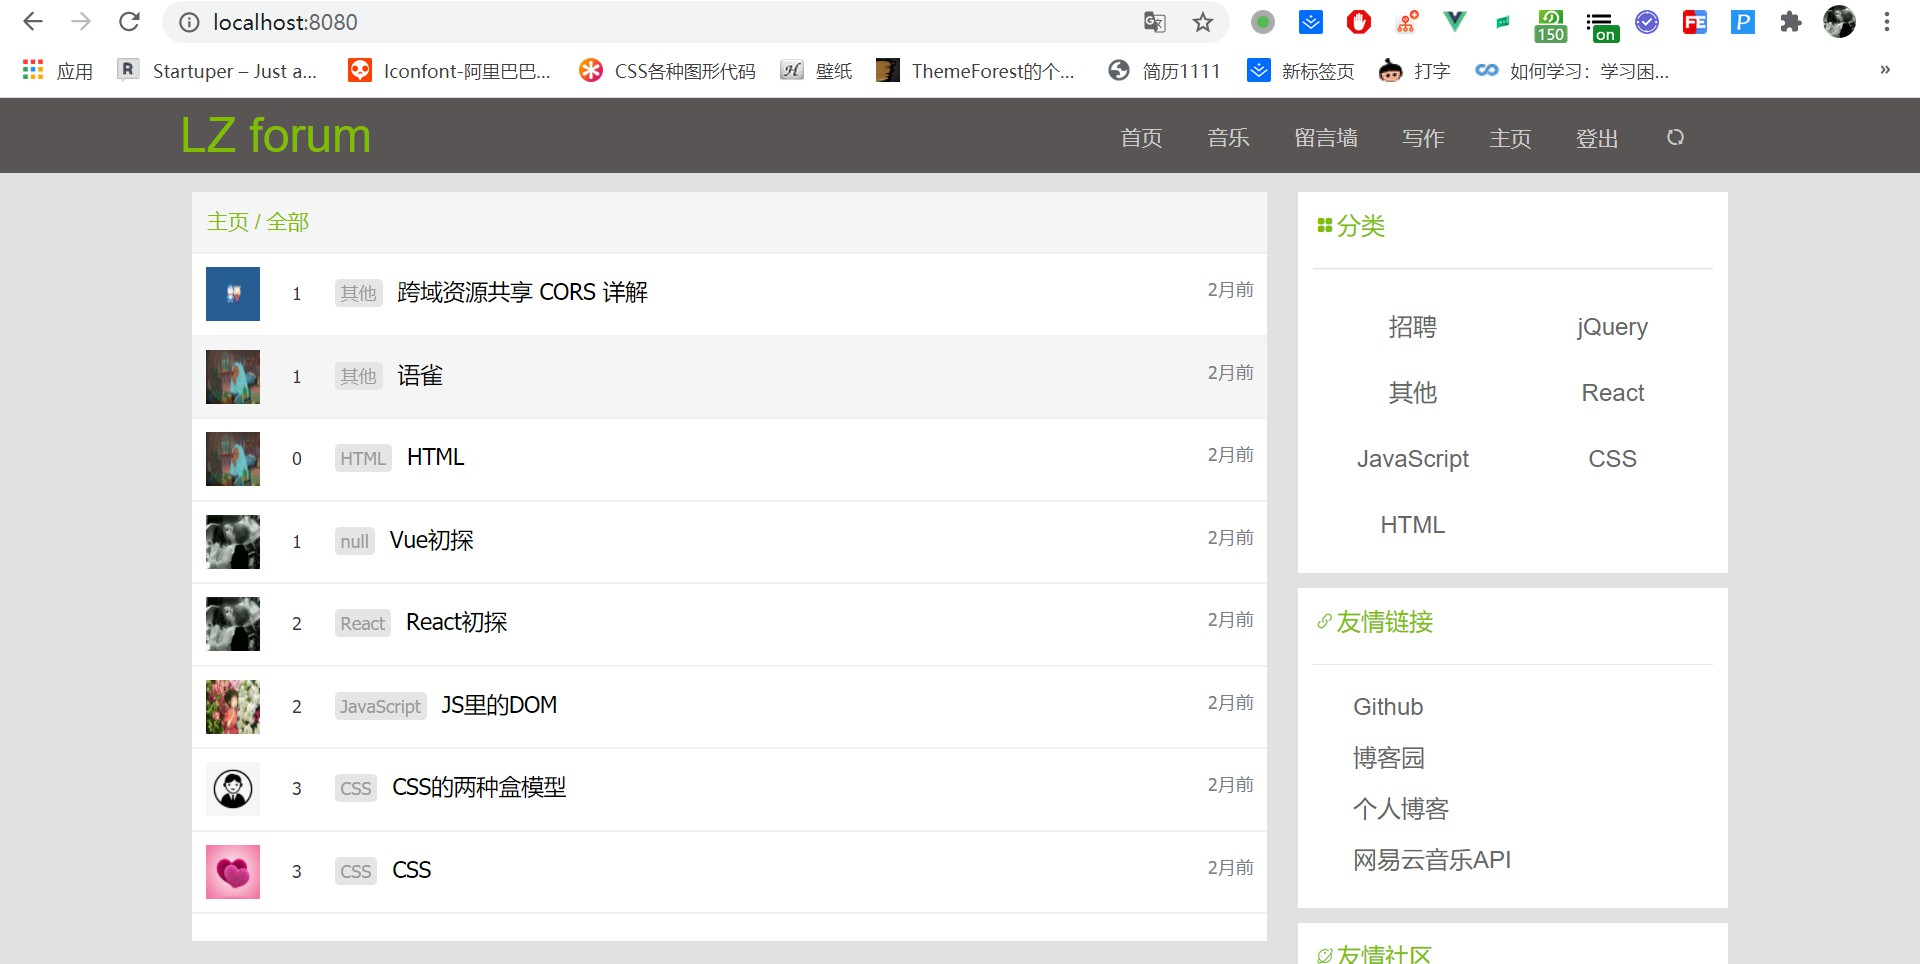
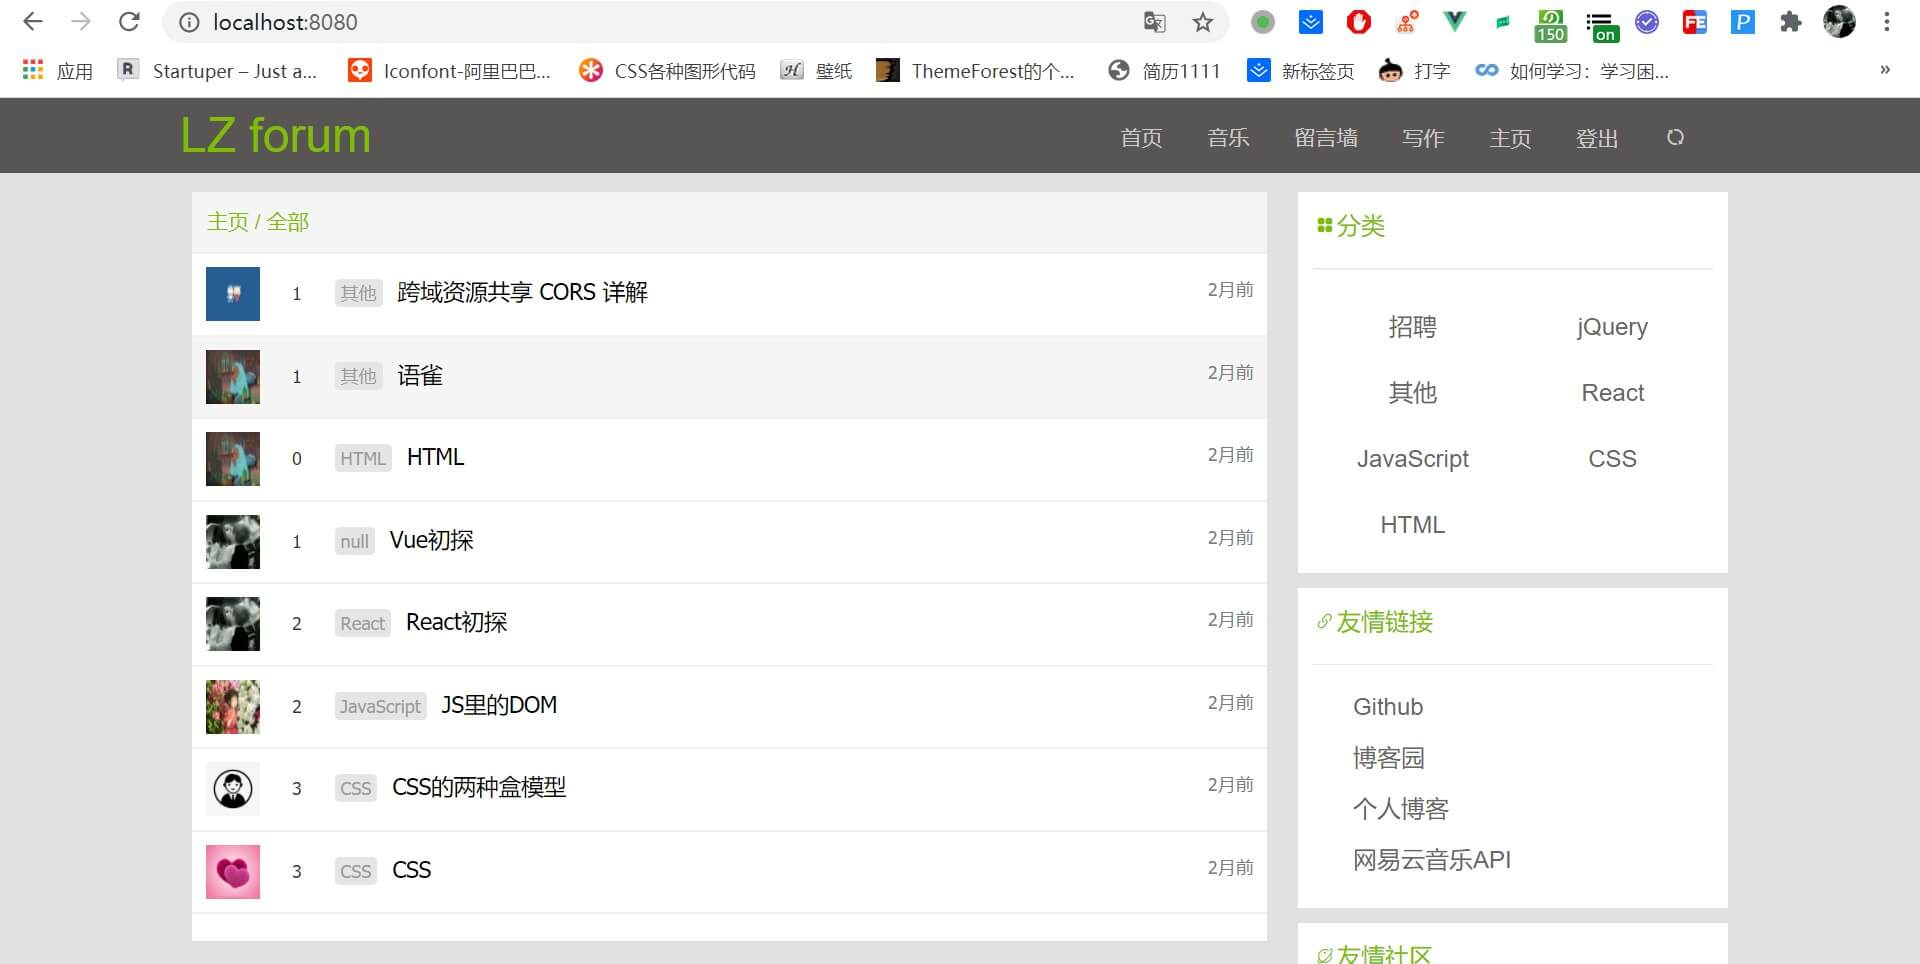
压缩图片、更新md

diff --git a/README.md b/README.md
@@ -2,13 +2,26 @@
 
 ## 部分预览图
 
-![个人主页](/preview/个人主页.jpg)
+主页：
 
 ![主页](/preview/主页.jpg)
 
+文章页：
+
+![文章页](/preview/文章页.jpg)
+
+评论：
+
+![评论](/preview/评论.jpg)
+
+音乐页：
+
 ![音乐页](/preview/音乐页.jpg)
 
+个人主页：
+
+![个人主页](/preview/个人主页.jpg)
+
+管理员页：
+
 ![管理员页](/preview/管理员页.jpg)
-
-
-
